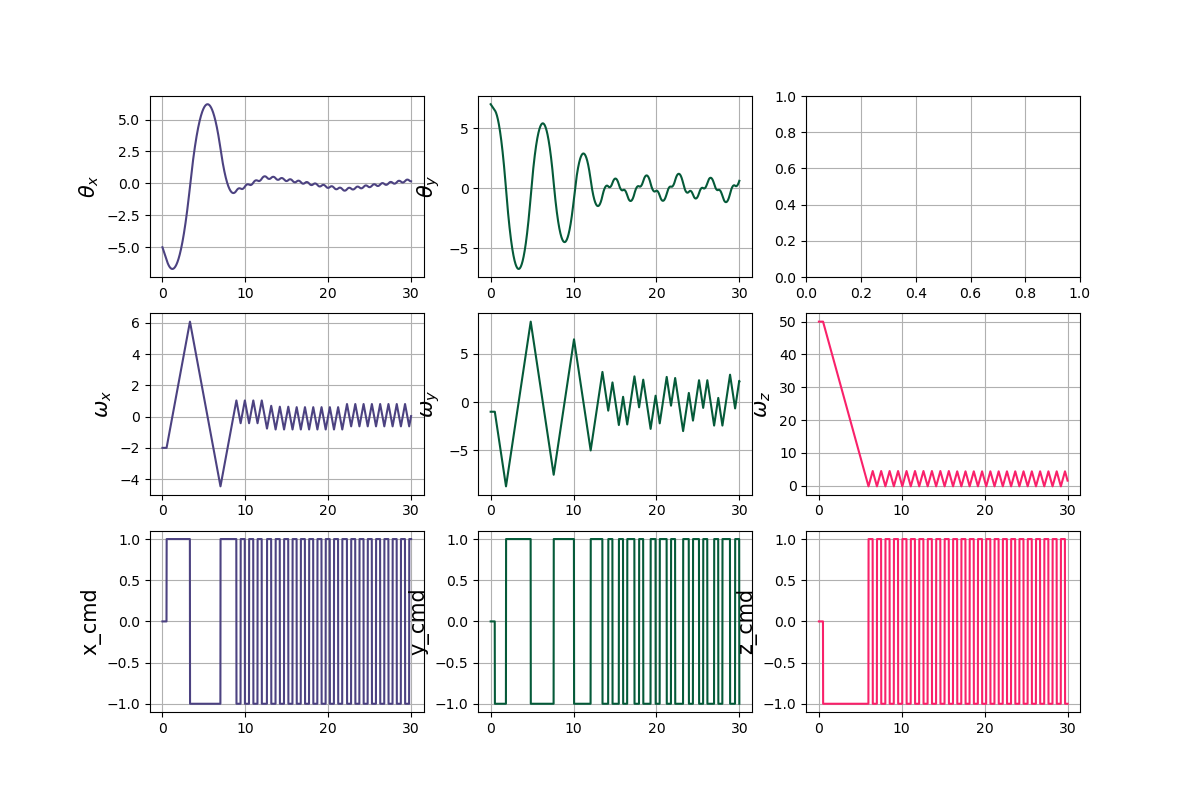
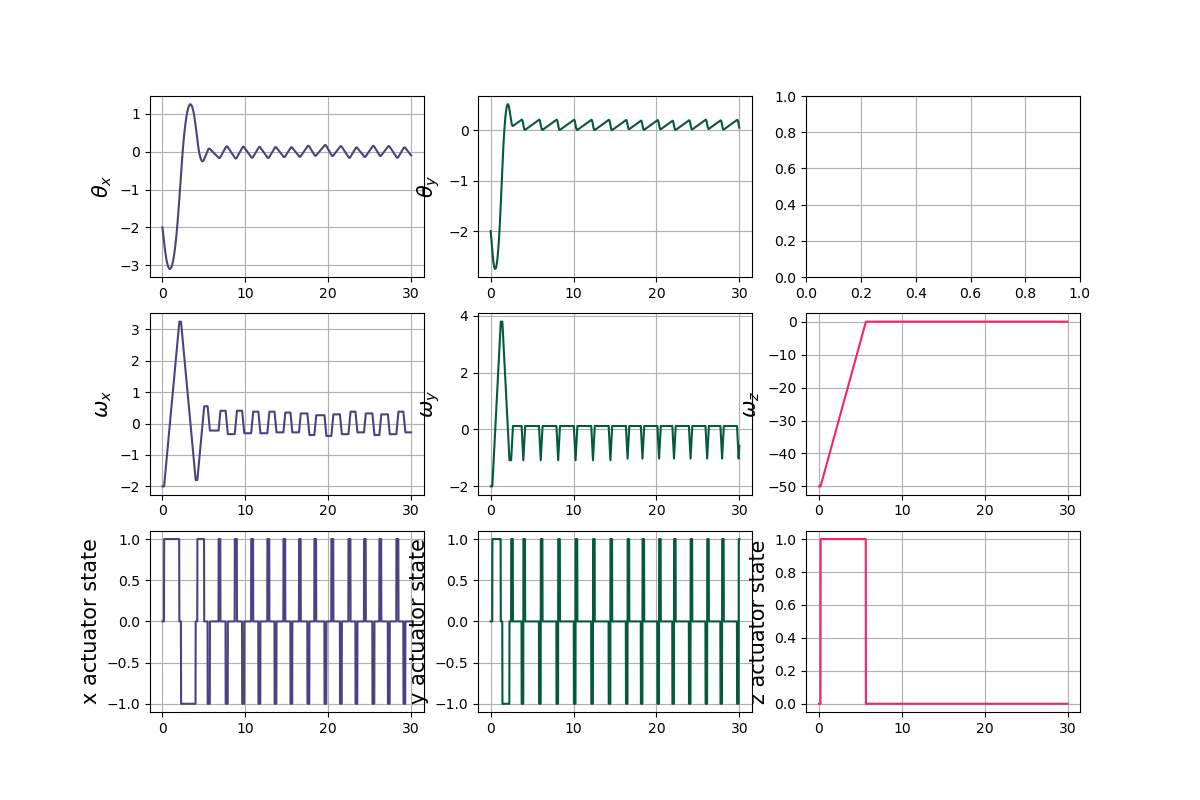
modified Actuator.getState method

diff --git a/controller/RCS_PID/python/3DoF_simulation.py b/controller/RCS_PID/python/3DoF_simulation.py
@@ -9,13 +9,12 @@ import time
 coeff_rad_to_deg = 360/(2*np.pi)
 coeff_deg_to_rad = (2*np.pi)/360
 
-
 # --INITIALIZE STATE--
-initial_state = {'thX': -5 *coeff_deg_to_rad,
+initial_state = {'thX': -2 *coeff_deg_to_rad,
                  'wX': -2 *coeff_deg_to_rad,
-                 'thY': 7 *coeff_deg_to_rad,
-                 'wY': -1 *coeff_deg_to_rad,
-                 'wZ': 50 *coeff_deg_to_rad,}
+                 'thY': -2 *coeff_deg_to_rad,
+                 'wY': -2 *coeff_deg_to_rad,
+                 'wZ': -50 *coeff_deg_to_rad,}
 # --------------------
 
 # --SIM PARAMS-- (units in N, m, kg, s, etc.) 
@@ -33,12 +32,12 @@ solenoid_thrust = 20
 Kp = 50
 Ki = 10
 Kd = 10
-min_act_time = 0.5
+min_act_time = 0.2
 # ---------------------
 
-x_controller = PID(50, 10, 30)
-y_controller = PID(50, 10, 10)
-z_controller = PID(1000, 1, 0) # z_controller gets handed angular velocty, not angle
+x_controller = PID(50, 0, 20)
+y_controller = PID(50, 0, 20)
+z_controller = PID(50, 0, 0.1) # z_controller gets handed angular velocty, not angle
 
 x_act = Actuator(min_act_time)
 y_act = Actuator(min_act_time)
@@ -46,7 +45,7 @@ z_act = Actuator(min_act_time)
 
 rocket = threeDofPhysics(initial_state, mmoiX, mmoiZ, rz, rx)
 
-N = int(time_limit/dt)
+N = int(time_limit/dt)+1
 Xthetas = [None]*N
 Ythetas = [None]*N
 Xomegas = [None]*N
@@ -80,7 +79,7 @@ while sim_time <= time_limit:
     z_act.state, z_act.time_on, z_act.ontime = z_act.getState(sim_time, z_cmd)
     
     # DEBUG
-    debug.append((round(sim_time,3), x_act.state, (x_cmd[0], round(x_cmd[1],3)), round(x_act.time_on,3), round(x_act.ontime,3)))
+    debug.append((round(sim_time,3), round(Xthetas[i],3),  x_act.state, (x_cmd[0], round(x_cmd[1],3)), round(x_act.time_on,3), round(x_act.ontime,3)))
 
     force_vector =  {   'x_thrust': x_act.state * solenoid_thrust,
                         'y_thrust': y_act.state * 2 * solenoid_thrust, # 2 y-solenoids on each side
@@ -97,7 +96,7 @@ while sim_time <= time_limit:
     i+=1
 
 for s in debug[0:1000]:
-    print(s[0], "\tstate: ", s[1], "\tcmd: ", s[2] , "\ttime on: ", s[3], "\tontime: ", s[4])
+    print(s[0], "\tangle: ", s[1], "\tact.: ", s[2], "\tcmd: ", s[3] , "\ttime on: ", s[4], "\tontime: ", s[5])
     
 # -- PLOTTING ------------------------
 time = np.linspace(0, time_limit, N)
@@ -121,15 +120,15 @@ ax[1][2].set_ylabel(r"$\omega_z$", fontsize=15)
 ax[2][0].plot(time, x_act_track, color='#4C4281', label='x')
 ax[2][1].plot(time, y_act_track, color='#055A39',label='y')
 ax[2][2].plot(time, z_act_track, color='#F9216A',label='z')
-ax[2][0].set_ylabel("x_cmd", fontsize=15)
-ax[2][1].set_ylabel("y_cmd", fontsize=15)
-ax[2][2].set_ylabel("z_cmd", fontsize=15)
+ax[2][0].set_ylabel("x actuator state", fontsize=15)
+ax[2][1].set_ylabel("y actuator state", fontsize=15)
+ax[2][2].set_ylabel("z actuator state", fontsize=15)
 
 for i in range(len(ax)):
     for j in range(len(ax[0])):
         ax[i][j].grid()
 
 fig.savefig("controller/RCS_PID/python/figs/3DoF_States")
-plt.tight_layout()
+plt.tight_layout(pad=2.5)
 plt.show()
 # -----------------------------------

diff --git a/controller/RCS_PID/python/Actuator.py b/controller/RCS_PID/python/Actuator.py
@@ -7,7 +7,7 @@ class Actuator():
              0: both solenoids off
              1: positive solenoid on, negative solenoid off
         
-        time_on: when the actuator was first commanded to be in the current state
+       time_switch: when the actuator was first commanded to be in the current state
         
         ontime: how long the actuator has been in the current state
         
@@ -15,12 +15,12 @@ class Actuator():
         '''
         self.min_act_time = min_act_time
         self.state = 0
-        self.time_on = 0
+        self.time_switch = 0
         self.ontime = 0
         
     def getState(self, time, cmd):
         '''
-        Manages the state of the solenoids controlling motion on an axis
+        Handles the state of the solenoids controlling motion on an axis
         
         time: current time
         
@@ -33,17 +33,17 @@ class Actuator():
             
         '''
         
-        self.ontime = time - self.time_on # track ontime
+        self.ontime = time - self.time_switch # track ontime
         
         if self.state != cmd[0] and self.ontime >= self.min_act_time:
             self.ontime = 0 # reset ontime if a different command is sent
-            self.state = cmd[0]
-            self.time_on = time # mark when solenoid was turned ON (positive or negative)
-
-        # if self.ontime > cmd[1] and self.ontime >= self.min_act_time:
-        #     # if it has been longer than the commanded time, turn back off
-        #     self.time_on = time # time_on is actually time_switch
-        #     self.ontime = 0
-        #     self.state = 0
+            self.time_switch = time # mark when solenoid state was switched
         
-        return self.state, self.time_on, self.ontime
+            if cmd[1] > self.min_act_time:
+                self.state = cmd[0]
+                self.time_switch = time # mark when solenoid state was switched
+            else: # command is too small
+                self.state = 0
+                self.time_switch = time
+
+        return self.state, self.time_switch, self.ontime

diff --git a/controller/RCS_PID/python/PID.py b/controller/RCS_PID/python/PID.py
@@ -7,7 +7,7 @@ class PID():
         self.setpoint = target
         self.error_last = 0
         self.integral_error = 0
-        self.min_act_time = None
+        # self.min_act_time = None
     
     def compute(self,theta:float,dt:float) -> float: #idk if type specification is useful
         '''
@@ -26,9 +26,9 @@ class PID():
         D = -1*self.Kd*( error - self.error_last )/dt
         output = P+I+D
         self.error_last = error
-        if self.min_act_time is not None:
-            if abs(output) < self.min_act_time:
-                output = 0
+        # if self.min_act_time is not None:
+        #     if abs(output) < self.min_act_time:
+        #         output = 0
         
         if output > 0:
             cmd = 1
